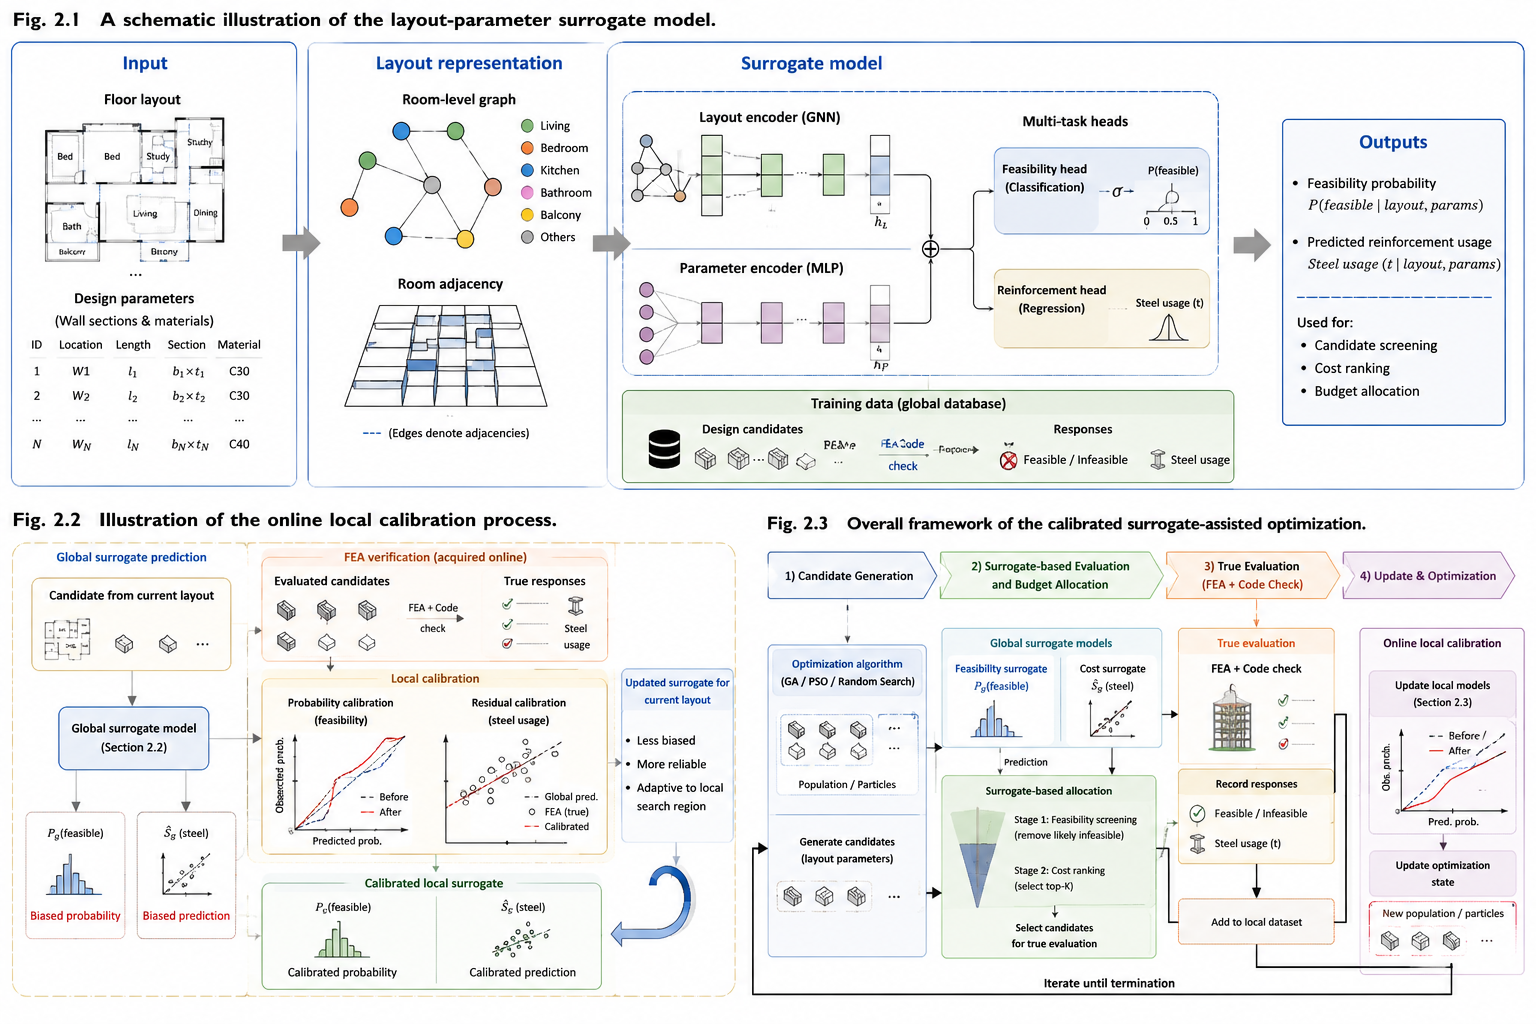
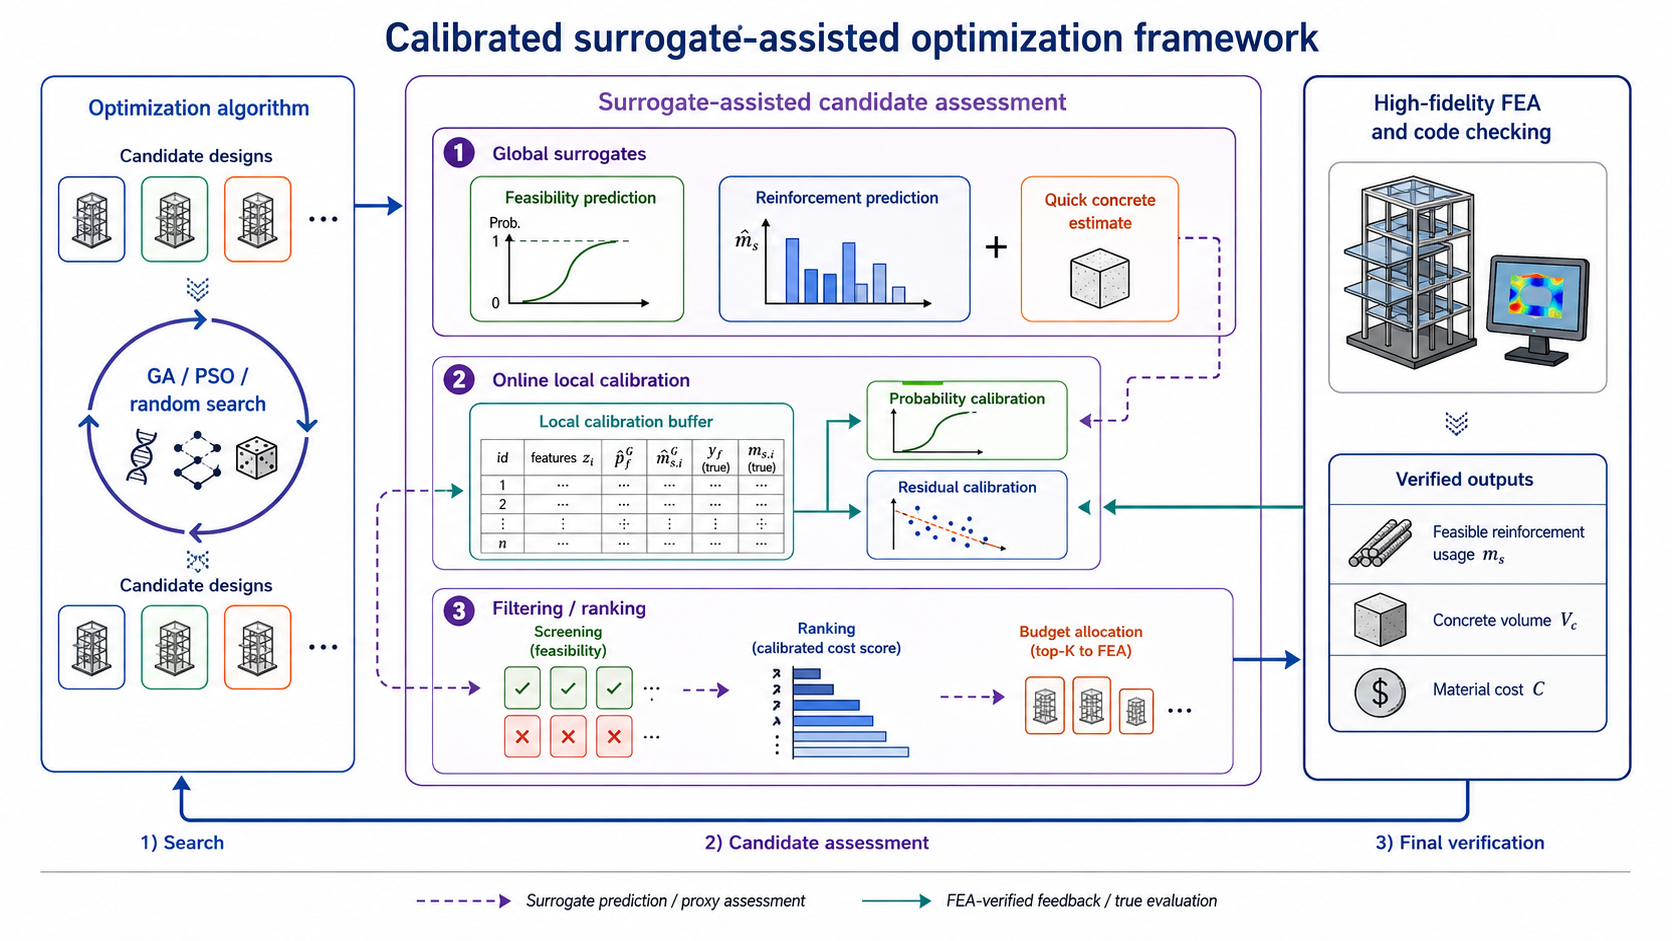
修改配图

Changed region(s): [[0.0, 0.0, 1.0, 0.9862]]

diff --git a/docs/paper2/manuscript_md/02_10_combined.md b/docs/paper2/manuscript_md/02_10_combined.md
@@ -50,7 +50,7 @@
 
 // 后续小节按照这一闭环流程展开。第 2.1 节首先形式化定义剪力墙结构优化问题，包括设计变量、目标函数、约束条件和真实评价器。第 2.2 节说明代理学习数据如何由参数化结构评价流程形成，并介绍布局图和设计参数的输入表征。第 2.3 节描述两个全局代理模型，包括统一的布局参数融合架构、可行性筛选代理和钢筋用量代理。第 2.4 节进一步介绍在线局部校准方法，说明如何利用优化过程中新增的有限元结果校准可行性概率和钢筋用量残差。
 
-// 图 2.1 建议设计为“优化闭环 + 代理增强模块”的组合式框架图，而不是把代理模型、优化算法和 FEA 三个部分画成相同权重的并列模块。主体可以采用从左到右的流程：左侧是 optimization algorithm，表示 GA/PSO/random search 等优化器根据历史评价结果生成 candidate designs；中间是本文核心的 surrogate-assisted candidate assessment，建议占据图中最大面积，并在内部进一步拆成 global surrogates、online local calibration、candidate filtering/ranking 三个子模块；右侧是 high-fidelity FEA and code checking，面积略小但用深色或边框强调其 final verification role。数据流上，候选方案从优化器进入代理评估模块，先由 feasibility surrogate 给出可行概率并筛掉明显不可行方案，再由 steel surrogate 加上快速混凝土估计形成 calibrated cost score，对剩余候选进行排序和预算分配；只有被选中的候选进入 FEA。FEA 输出 feasible label、steel usage、concrete volume、material cost，这些结果一条箭头返回优化器用于更新搜索状态，另一条箭头返回 local calibration buffer，用于更新 probability calibration 和 steel residual calibration。图中可以用两种线型区分代理路径和真实验证路径，例如实线表示 FEA-verified feedback，虚线表示 surrogate prediction。视觉重点应放在两个创新点上：一是 global surrogate 经 online local calibration 后再参与决策，二是 calibrated surrogate 不直接给出最终设计结果，而是通过 screening and ranking 减少 FEA 调用。图中不需要展开 OpenSees 建模或网络层细节，这些内容在后续小节说明即可。
+// 图 2.1 建议设计为“优化闭环 + 代理增强模块”的组合式框架图，而不是把代理模型、优化算法和 FEA 三个部分画成相同权重的并列模块。主体可以采用从左到右的流程：左侧是 optimization algorithm，表示 GA/PSO/random search 等优化器根据历史评价结果生成 candidate designs；中间是本文核心的 surrogate-assisted candidate assessment，建议占据图中最大面积，并在内部进一步拆成 global surrogates、online local calibration、candidate filtering/ranking 三个子模块；右侧是 high-fidelity FEA and code checking，面积略小但用深色或边框强调其 final verification role。数据流上，候选方案从优化器进入代理评估模块，先由 feasibility surrogate 给出可行概率并筛掉明显不可行方案，再由 reinforcement surrogate 加上快速混凝土估计形成 calibrated cost score，对剩余候选进行排序和预算分配；只有被选中的候选进入 FEA。FEA 输出 feasible reinforcement usage、concrete volume、material cost，这些结果一条箭头返回优化器用于更新搜索状态，另一条箭头返回 local calibration buffer，用于更新 probability calibration 和 reinforcement residual calibration。图中可以用两种线型区分代理路径和真实验证路径，例如实线表示 FEA-verified feedback，虚线表示 surrogate prediction。视觉重点应放在两个创新点上：一是 global surrogate 经 online local calibration 后再参与决策，二是 calibrated surrogate 不直接给出最终设计结果，而是通过 screening and ranking 减少 FEA 调用。图中不需要展开 OpenSees 建模或网络层细节，这些内容在后续小节说明即可。
 
 # 2.1 Problem Formulation
 
